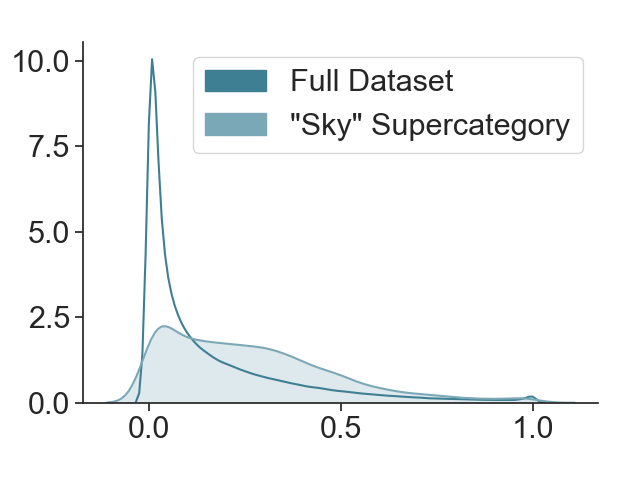
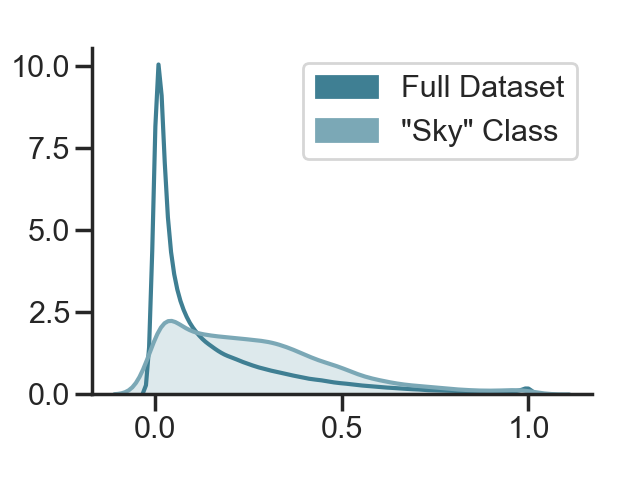
stop for now

Changed region(s): [[0.0, 0.0938, 0.9375, 0.9375], [0.3125, 0.125, 0.9062, 0.3438]]

diff --git a/scripts/archive/pretty_coco_sky/plot.py b/scripts/archive/pretty_coco_sky/plot.py
@@ -6,7 +6,7 @@ import seaborn as sns
 PALETTE = sns.diverging_palette(220, 10, n=7)
 FONT_SCALE = 2
 STYLE = "ticks"
-CONTEXT = "paper"
+CONTEXT = "poster"
 
 
 def set_styles():
@@ -38,6 +38,7 @@ def all_histogram():
     with open("histogram.cache", 'rb') as fp:
         Xs = pickle.load(fp)
 
+    sns.set_context("poster")
     # Plot entire dataset
     xs = []
     for i in Xs.keys():
@@ -54,8 +55,7 @@ def all_histogram():
     label_patches = []
     label_patch = mpatches.Patch(color=PALETTE[0], label="Full Dataset")
     label_patches.append(label_patch)
-    label_patch = mpatches.Patch(
-        color=PALETTE[1], label='"Sky" Supercategory')
+    label_patch = mpatches.Patch(color=PALETTE[1], label='"Sky" Class')
     label_patches.append(label_patch)
     plotobj.legend(handles=label_patches)
 
